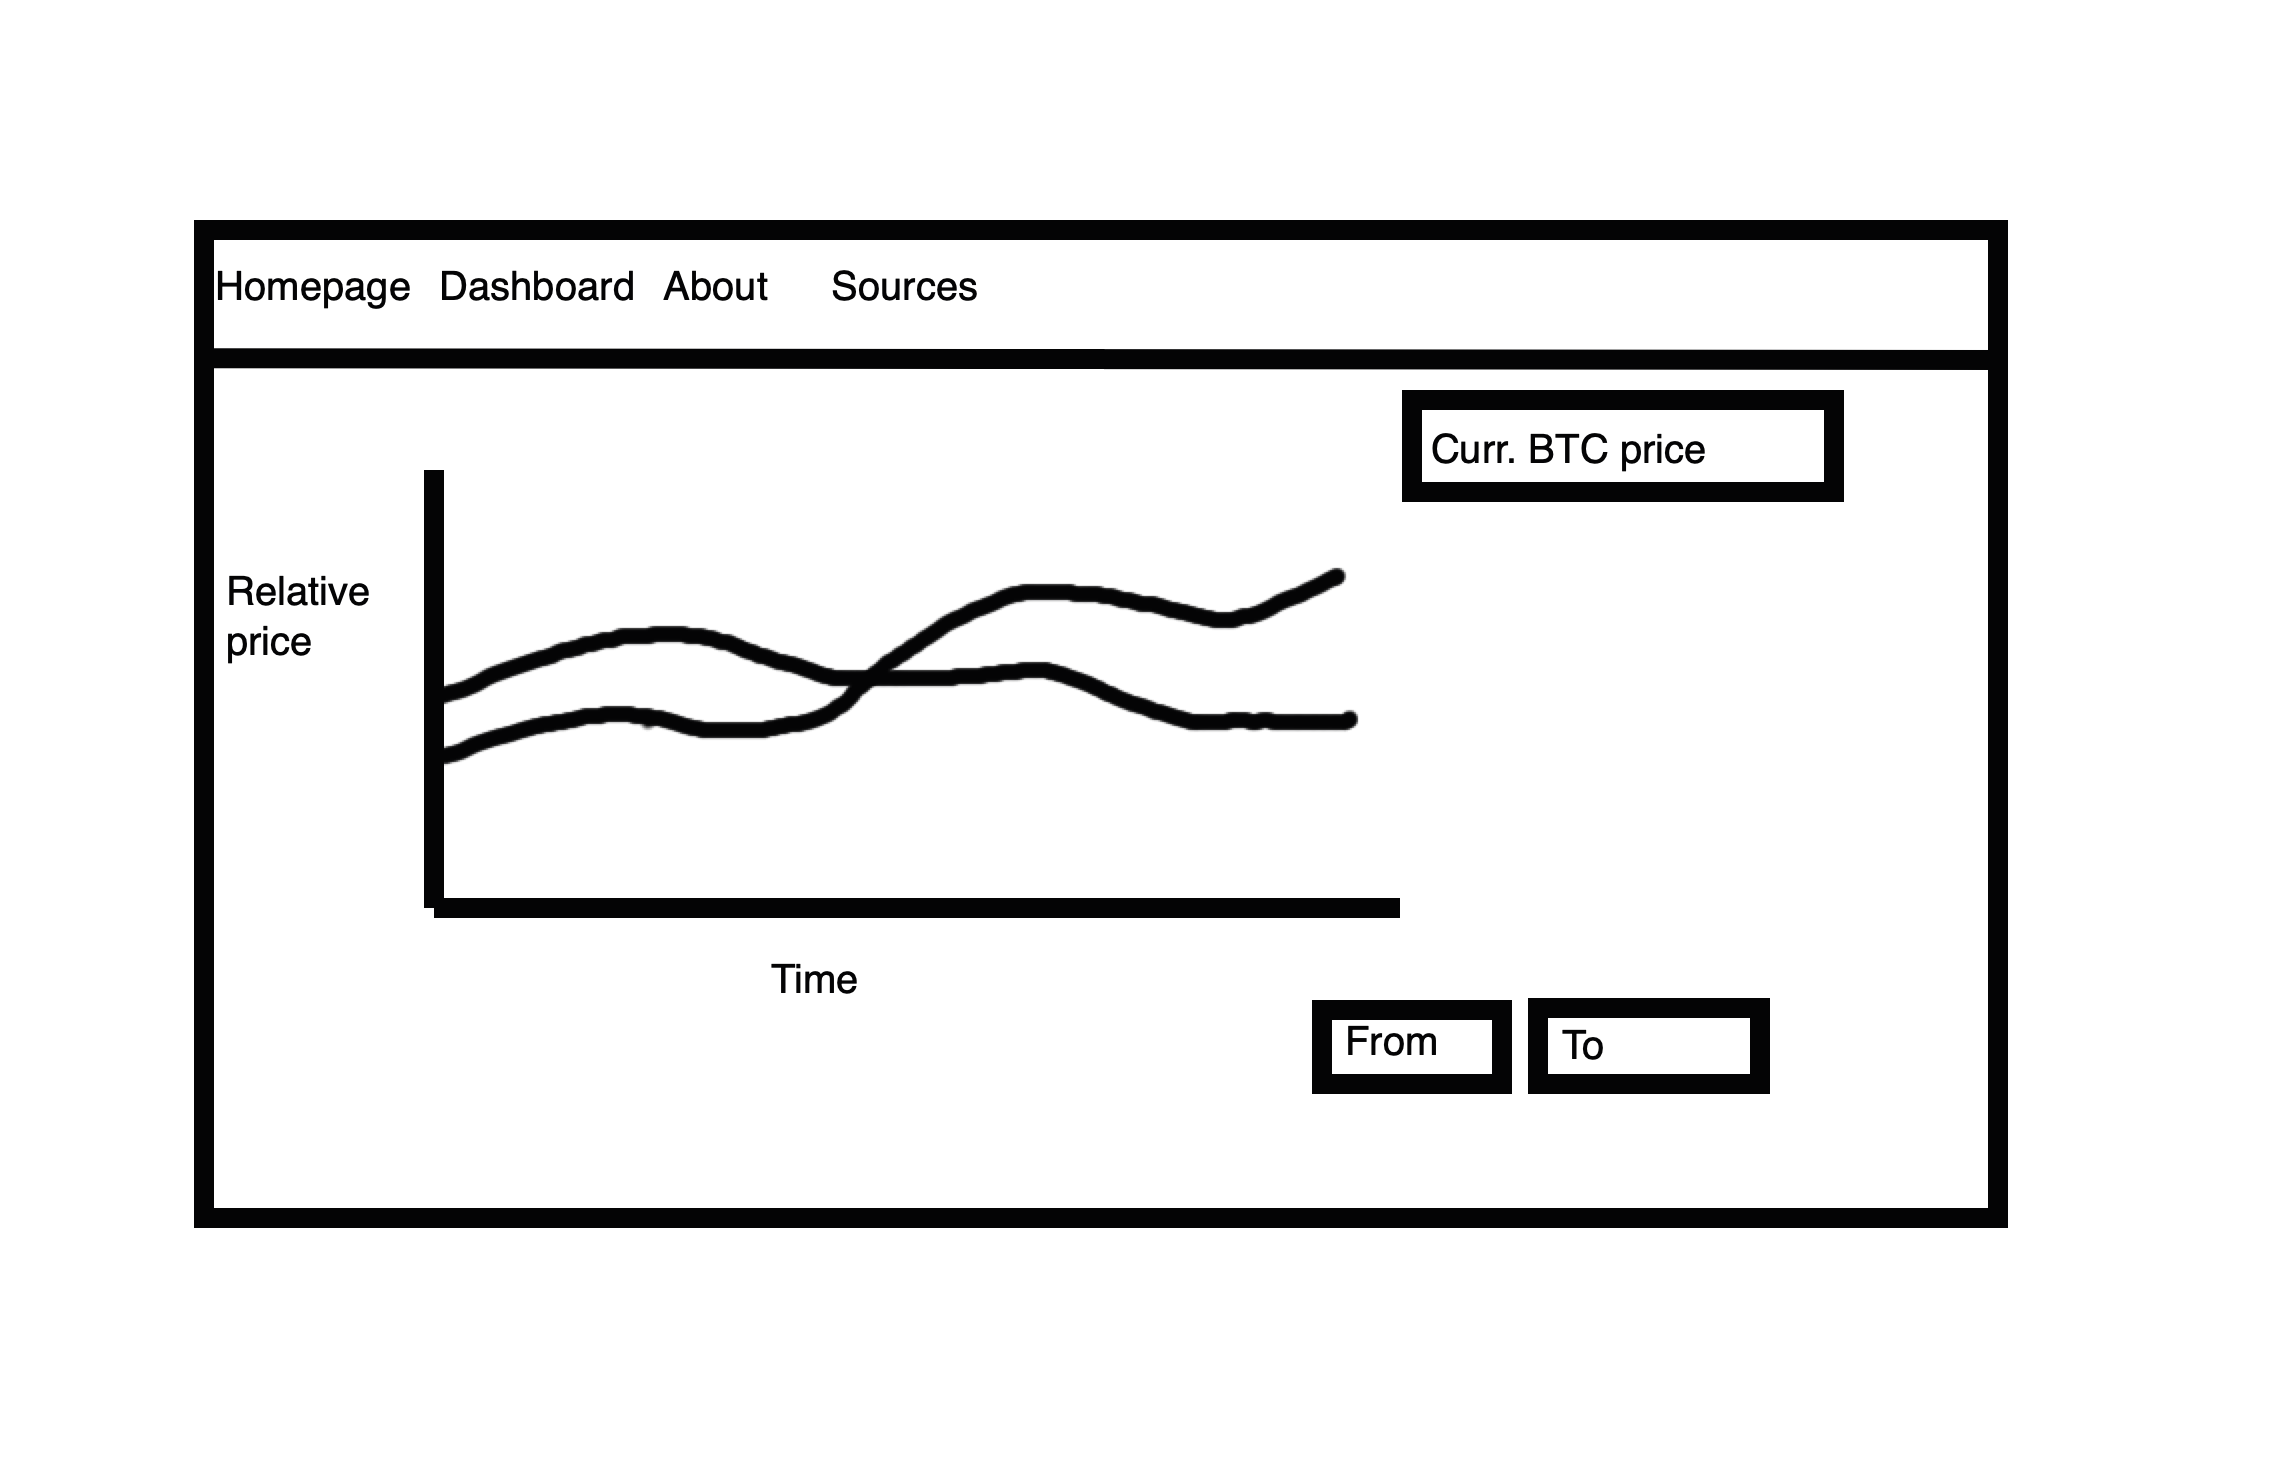
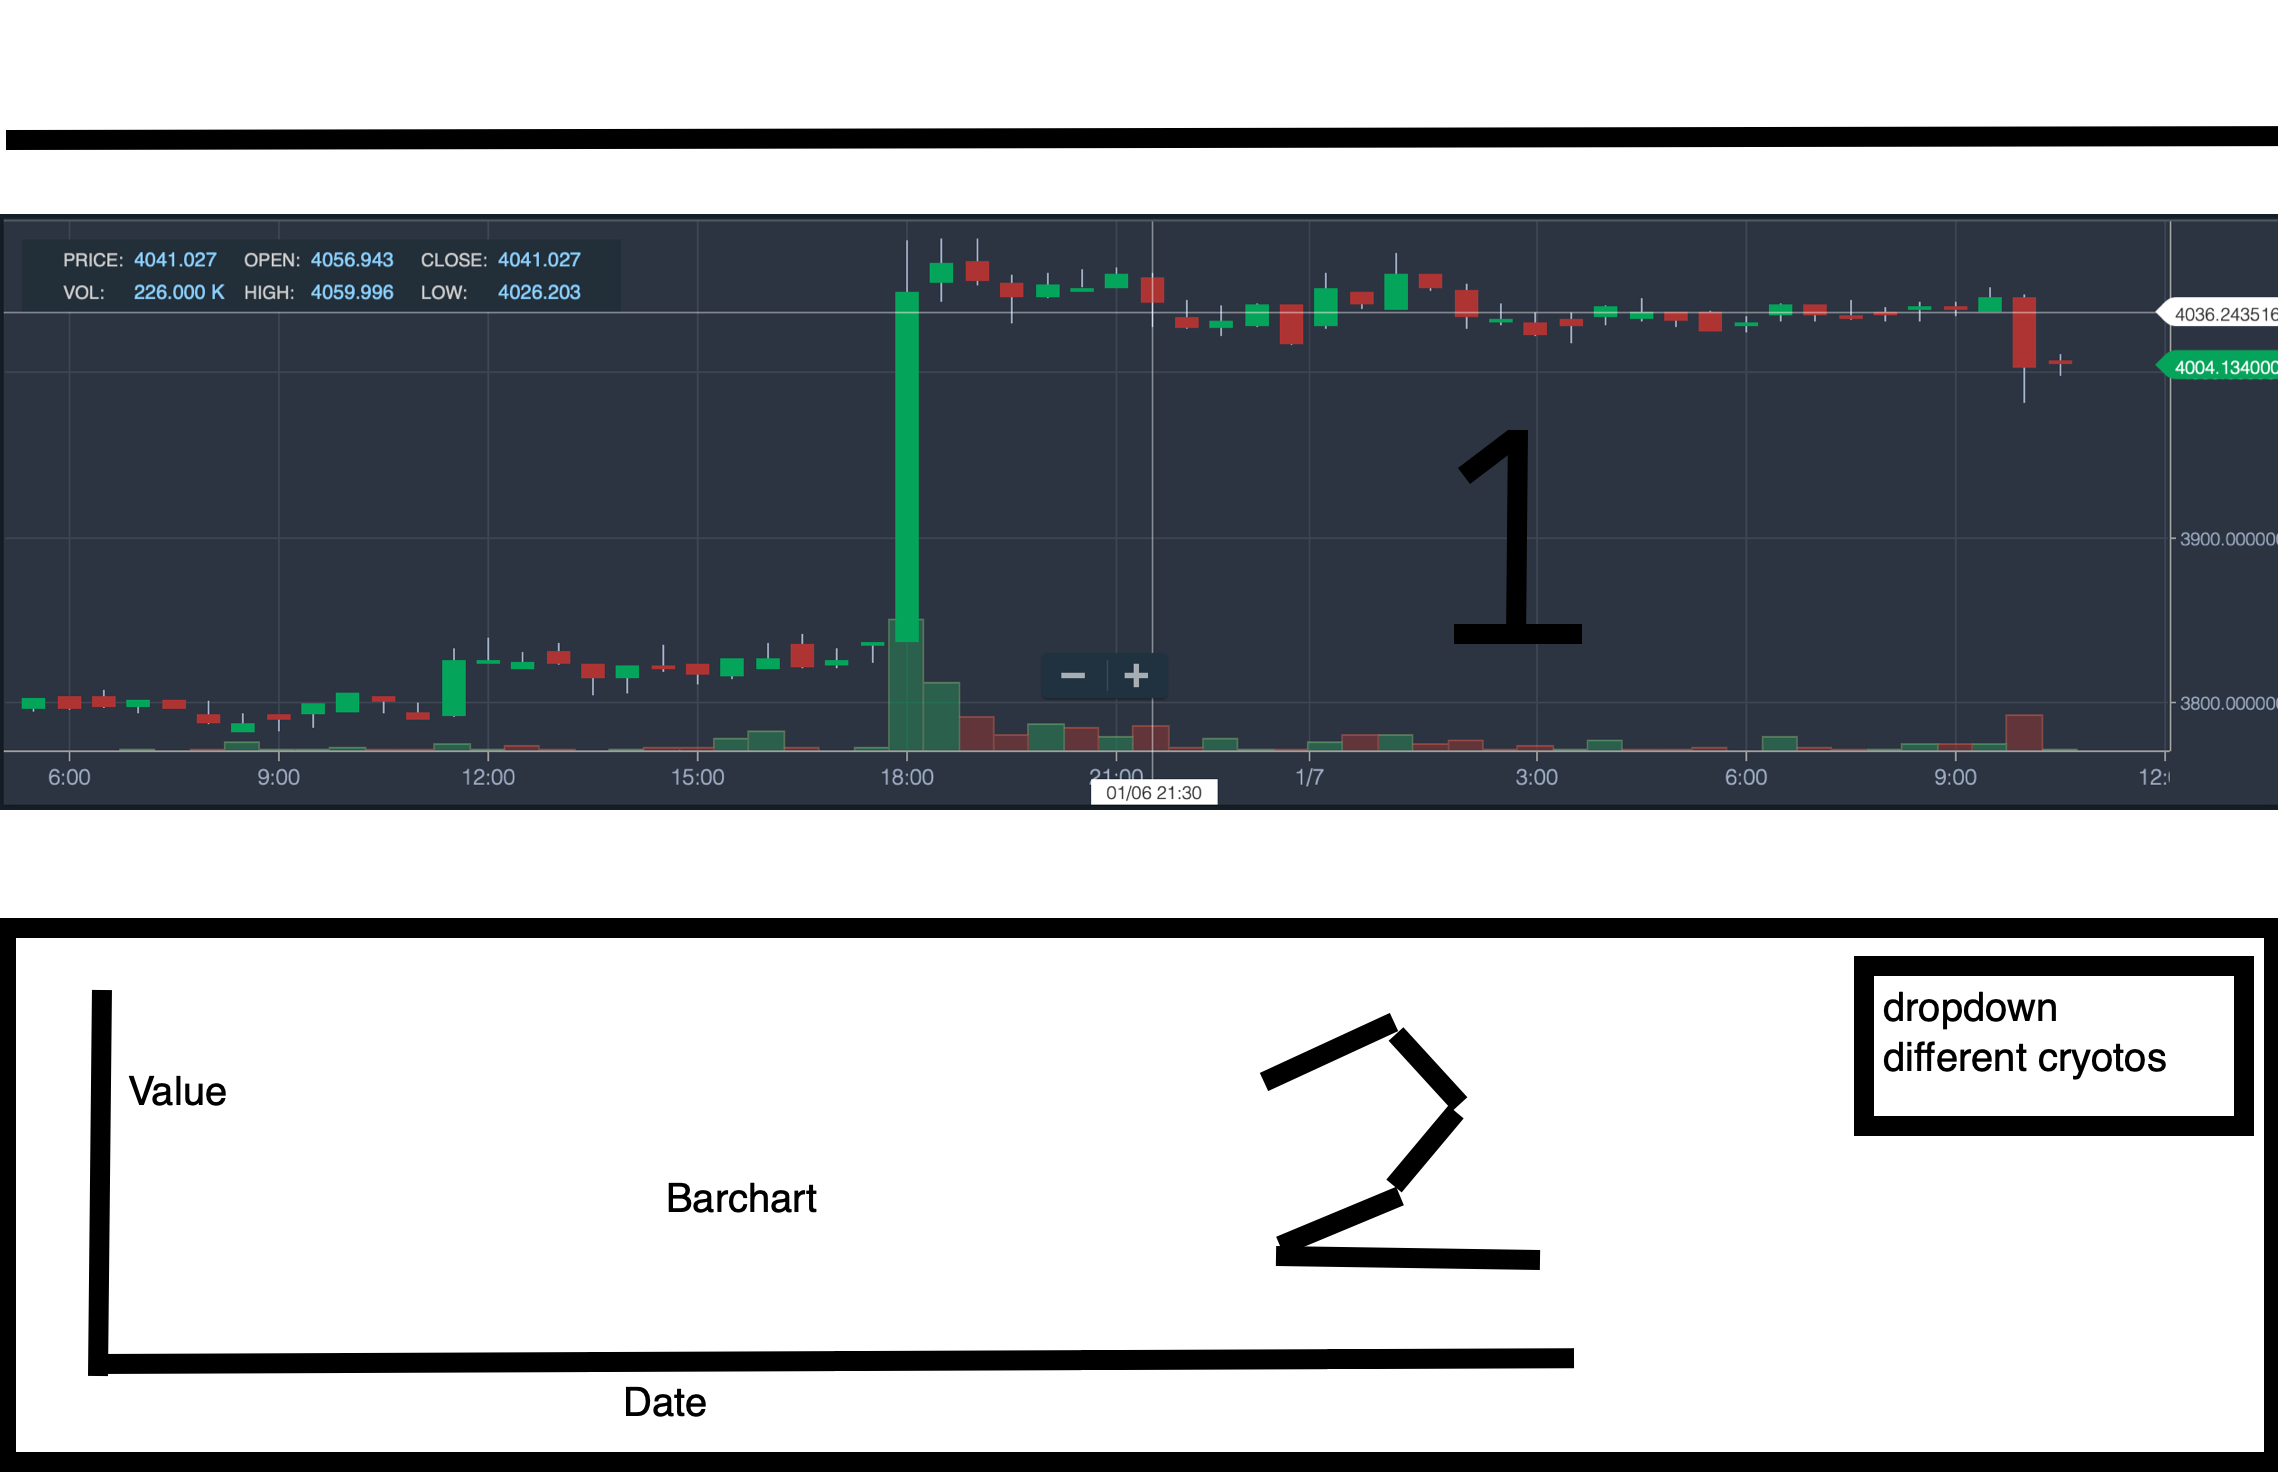
updated version

diff --git a/README.md b/README.md
@@ -21,6 +21,11 @@ Homepage: Some wallpaper and with information about who made the website.
 
 Dashboard: The site shows the current Bitcoin price, and maybe the user can also see the current price of other cryptocurrencies. Showing the price is optional, and will probably be implemented when the rest of the site is finished. The site shows at least some charts of the price of the cryptocurrencies over time, and how they are compared to the price of the Bitcoin. Which charts are useful are yet unknown, but the goal is to have at least 3 different kind of charts, showing the same data. The user can zoom in on a part of the chart, by selecting with the cursor or insert the from and to date in a separate box.
 
+Update
+
+The three charts that will be used are: candlestick chart, multiple axes and barcharts.
+
+
 ### Data source
 
 https://coinmetrics.io/data-downloads/
